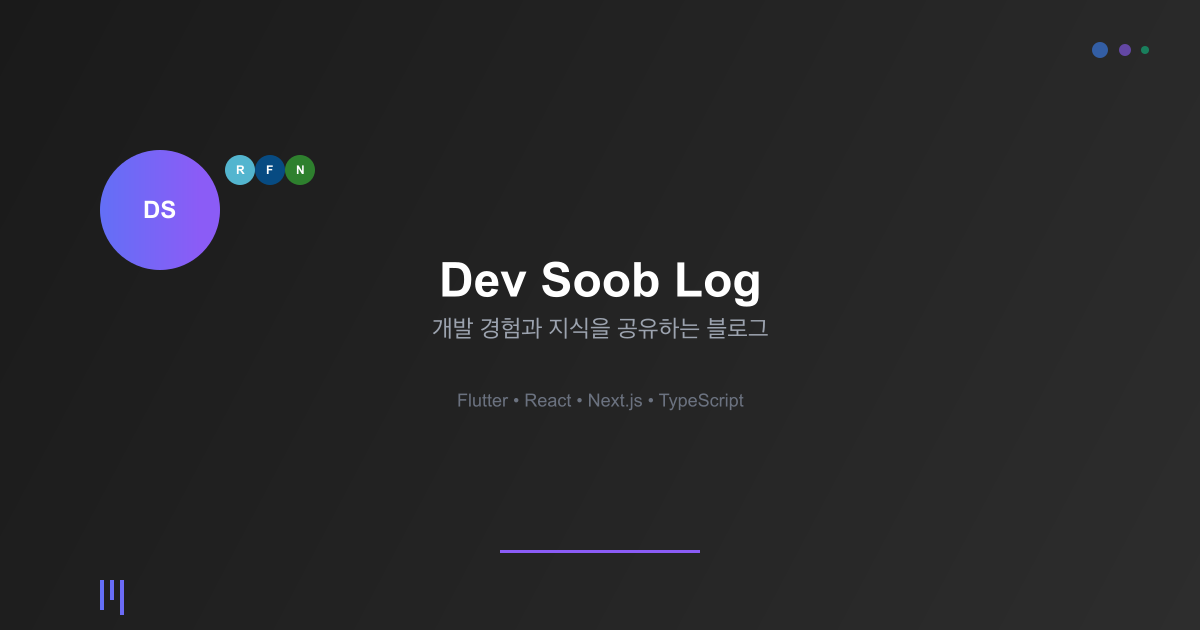
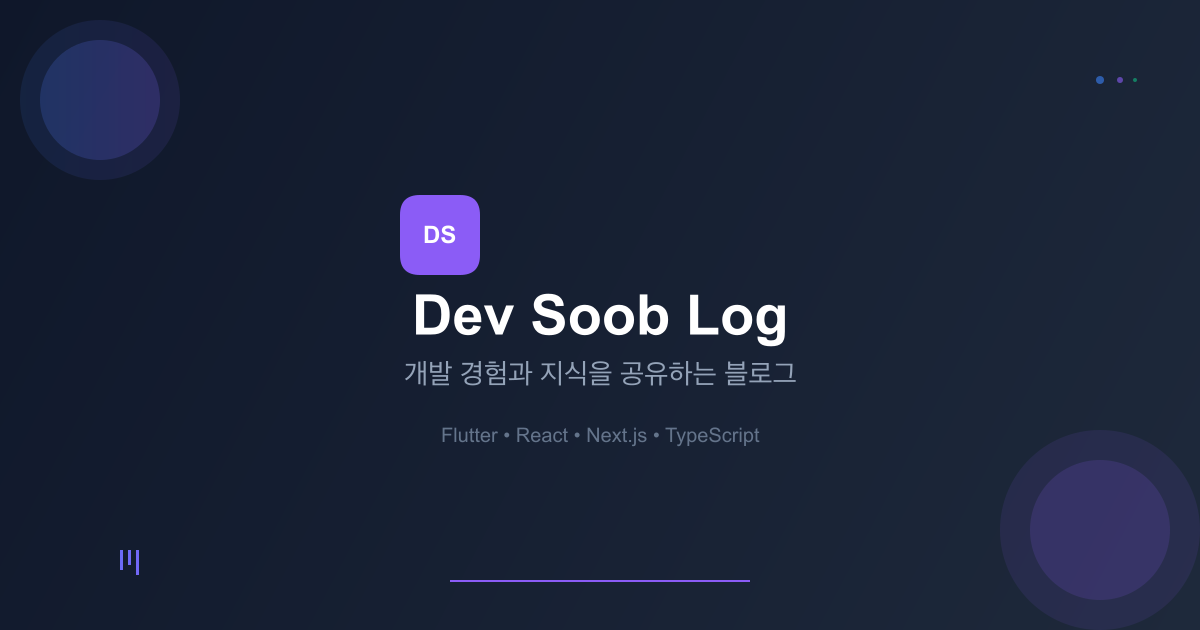
Feat: OG image design 수정

diff --git a/scripts/generate-og-image-simple.js b/scripts/generate-og-image-simple.js
@@ -11,10 +11,10 @@ async function generateOGImage() {
     const canvas = createCanvas(1200, 630);
     const ctx = canvas.getContext('2d');
     
-    // 배경 그라데이션 생성
+    // 배경 그라데이션 생성 (슬레이트 그레이)
     const gradient = ctx.createLinearGradient(0, 0, 1200, 630);
-    gradient.addColorStop(0, '#1a1a1a');
-    gradient.addColorStop(1, '#2d2d2d');
+    gradient.addColorStop(0, '#0f172a');
+    gradient.addColorStop(1, '#1e293b');
     ctx.fillStyle = gradient;
     ctx.fillRect(0, 0, 1200, 630);
     
@@ -23,10 +23,41 @@ async function generateOGImage() {
     accentGradient.addColorStop(0, '#3b82f6');
     accentGradient.addColorStop(1, '#8b5cf6');
     
-    // 로고 원 그리기
-    ctx.beginPath();
-    ctx.arc(160, 210, 60, 0, 2 * Math.PI);
+    // 좌측 상단 장식 원
     ctx.fillStyle = accentGradient;
+    ctx.globalAlpha = 0.1;
+    ctx.beginPath();
+    ctx.arc(100, 100, 80, 0, 2 * Math.PI);
+    ctx.fill();
+    ctx.globalAlpha = 0.2;
+    ctx.beginPath();
+    ctx.arc(100, 100, 60, 0, 2 * Math.PI);
+    ctx.fill();
+    
+    // 우측 하단 장식 원
+    ctx.globalAlpha = 0.1;
+    ctx.beginPath();
+    ctx.arc(1100, 530, 100, 0, 2 * Math.PI);
+    ctx.fill();
+    ctx.globalAlpha = 0.15;
+    ctx.beginPath();
+    ctx.arc(1100, 530, 70, 0, 2 * Math.PI);
+    ctx.fill();
+    ctx.globalAlpha = 1;
+    
+    // 로고 (둥근 사각형)
+    ctx.fillStyle = accentGradient;
+    ctx.beginPath();
+    ctx.moveTo(420, 195);
+    ctx.lineTo(460, 195);
+    ctx.quadraticCurveTo(480, 195, 480, 215);
+    ctx.lineTo(480, 255);
+    ctx.quadraticCurveTo(480, 275, 460, 275);
+    ctx.lineTo(420, 275);
+    ctx.quadraticCurveTo(400, 275, 400, 255);
+    ctx.lineTo(400, 215);
+    ctx.quadraticCurveTo(400, 195, 420, 195);
+    ctx.closePath();
     ctx.fill();
     
     // 로고 텍스트
@@ -34,73 +65,49 @@ async function generateOGImage() {
     ctx.font = 'bold 24px Arial';
     ctx.textAlign = 'center';
     ctx.textBaseline = 'middle';
-    ctx.fillText('DS', 160, 210);
+    ctx.fillText('DS', 440, 235);
     
-    // 기술 스택 아이콘들
-    const techIcons = [
-      { x: 240, y: 170, color: '#61dafb', text: 'R' },
-      { x: 270, y: 170, color: '#02569b', text: 'F' },
-      { x: 300, y: 170, color: '#339933', text: 'N' }
-    ];
-    
-    techIcons.forEach(icon => {
-      ctx.beginPath();
-      ctx.arc(icon.x, icon.y, 15, 0, 2 * Math.PI);
-      ctx.fillStyle = icon.color;
-      ctx.globalAlpha = 0.8;
-      ctx.fill();
-      ctx.globalAlpha = 1;
-      
-      ctx.fillStyle = '#ffffff';
-      ctx.font = 'bold 12px Arial';
-      ctx.textAlign = 'center';
-      ctx.textBaseline = 'middle';
-      ctx.fillText(icon.text, icon.x, icon.y);
-    });
-    
-    // 메인 타이틀
+    // 메인 타이틀 (더 큰 폰트)
     ctx.fillStyle = '#ffffff';
-    ctx.font = 'bold 48px Arial';
+    ctx.font = 'bold 56px Arial';
     ctx.textAlign = 'center';
-    ctx.fillText('Dev Soob Log', 600, 280);
+    ctx.fillText('Dev Soob Log', 600, 315);
     
     // 서브 타이틀
-    ctx.fillStyle = '#9ca3af';
-    ctx.font = '24px Arial';
-    ctx.fillText('개발 경험과 지식을 공유하는 블로그', 600, 330);
+    ctx.fillStyle = '#94a3b8';
+    ctx.font = '28px Arial';
+    ctx.fillText('개발 경험과 지식을 공유하는 블로그', 600, 375);
     
     // 기술 스택
-    ctx.fillStyle = '#6b7280';
-    ctx.font = '18px Arial';
-    ctx.fillText('Flutter • React • Next.js • TypeScript', 600, 400);
+    ctx.fillStyle = '#64748b';
+    ctx.font = '20px Arial';
+    ctx.fillText('Flutter • React • Next.js • TypeScript', 600, 435);
     
     // 하단 장식선
     ctx.fillStyle = accentGradient;
-    ctx.fillRect(500, 550, 200, 3);
+    ctx.fillRect(450, 580, 300, 2);
     
-    // 코너 장식
+    // 우측 상단 작은 장식
     ctx.fillStyle = '#3b82f6';
     ctx.globalAlpha = 0.6;
     ctx.beginPath();
-    ctx.arc(1100, 50, 8, 0, 2 * Math.PI);
+    ctx.arc(1100, 80, 4, 0, 2 * Math.PI);
     ctx.fill();
-    
     ctx.fillStyle = '#8b5cf6';
     ctx.beginPath();
-    ctx.arc(1125, 50, 6, 0, 2 * Math.PI);
+    ctx.arc(1120, 80, 3, 0, 2 * Math.PI);
     ctx.fill();
-    
     ctx.fillStyle = '#10b981';
     ctx.beginPath();
-    ctx.arc(1145, 50, 4, 0, 2 * Math.PI);
+    ctx.arc(1135, 80, 2, 0, 2 * Math.PI);
     ctx.fill();
     ctx.globalAlpha = 1;
     
-    // 좌측 하단 장식
+    // 좌측 하단 작은 장식
     ctx.fillStyle = accentGradient;
-    ctx.fillRect(100, 580, 4, 30);
-    ctx.fillRect(110, 580, 4, 20);
-    ctx.fillRect(120, 580, 4, 35);
+    ctx.fillRect(120, 550, 3, 20);
+    ctx.fillRect(128, 550, 3, 15);
+    ctx.fillRect(136, 550, 3, 25);
     
     // PNG로 저장
     const buffer = canvas.toBuffer('image/png');
